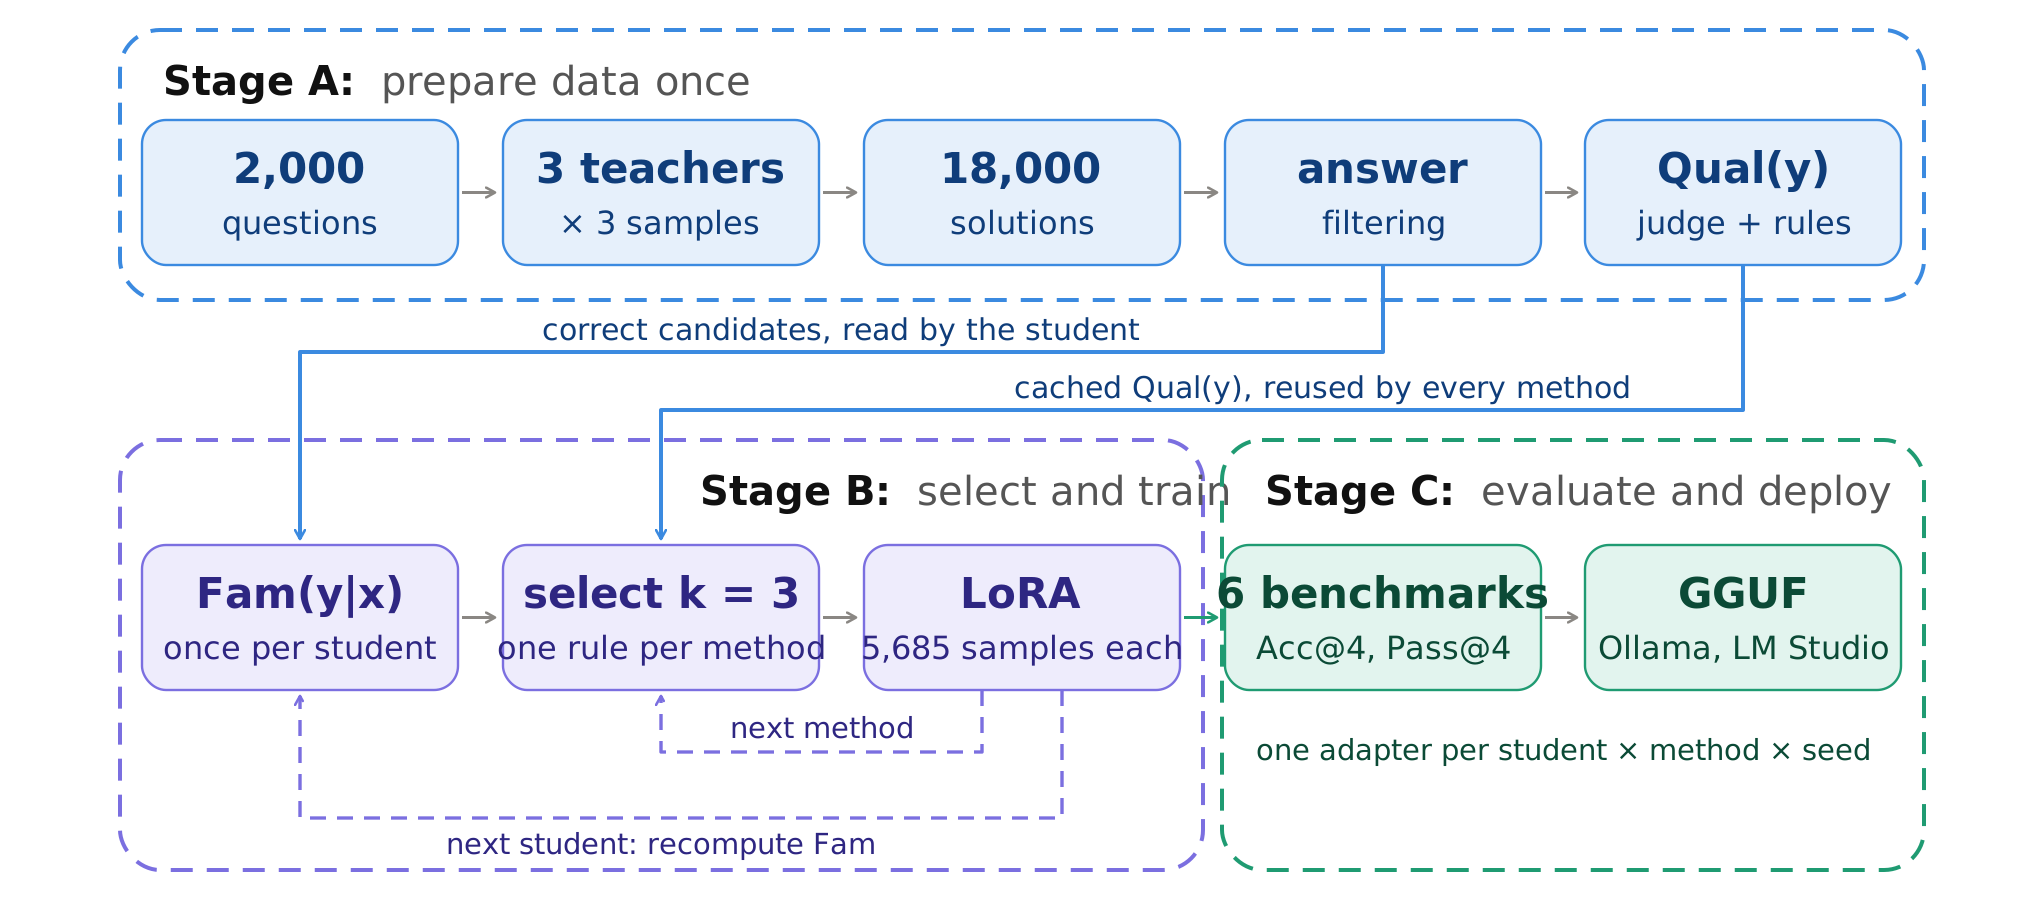
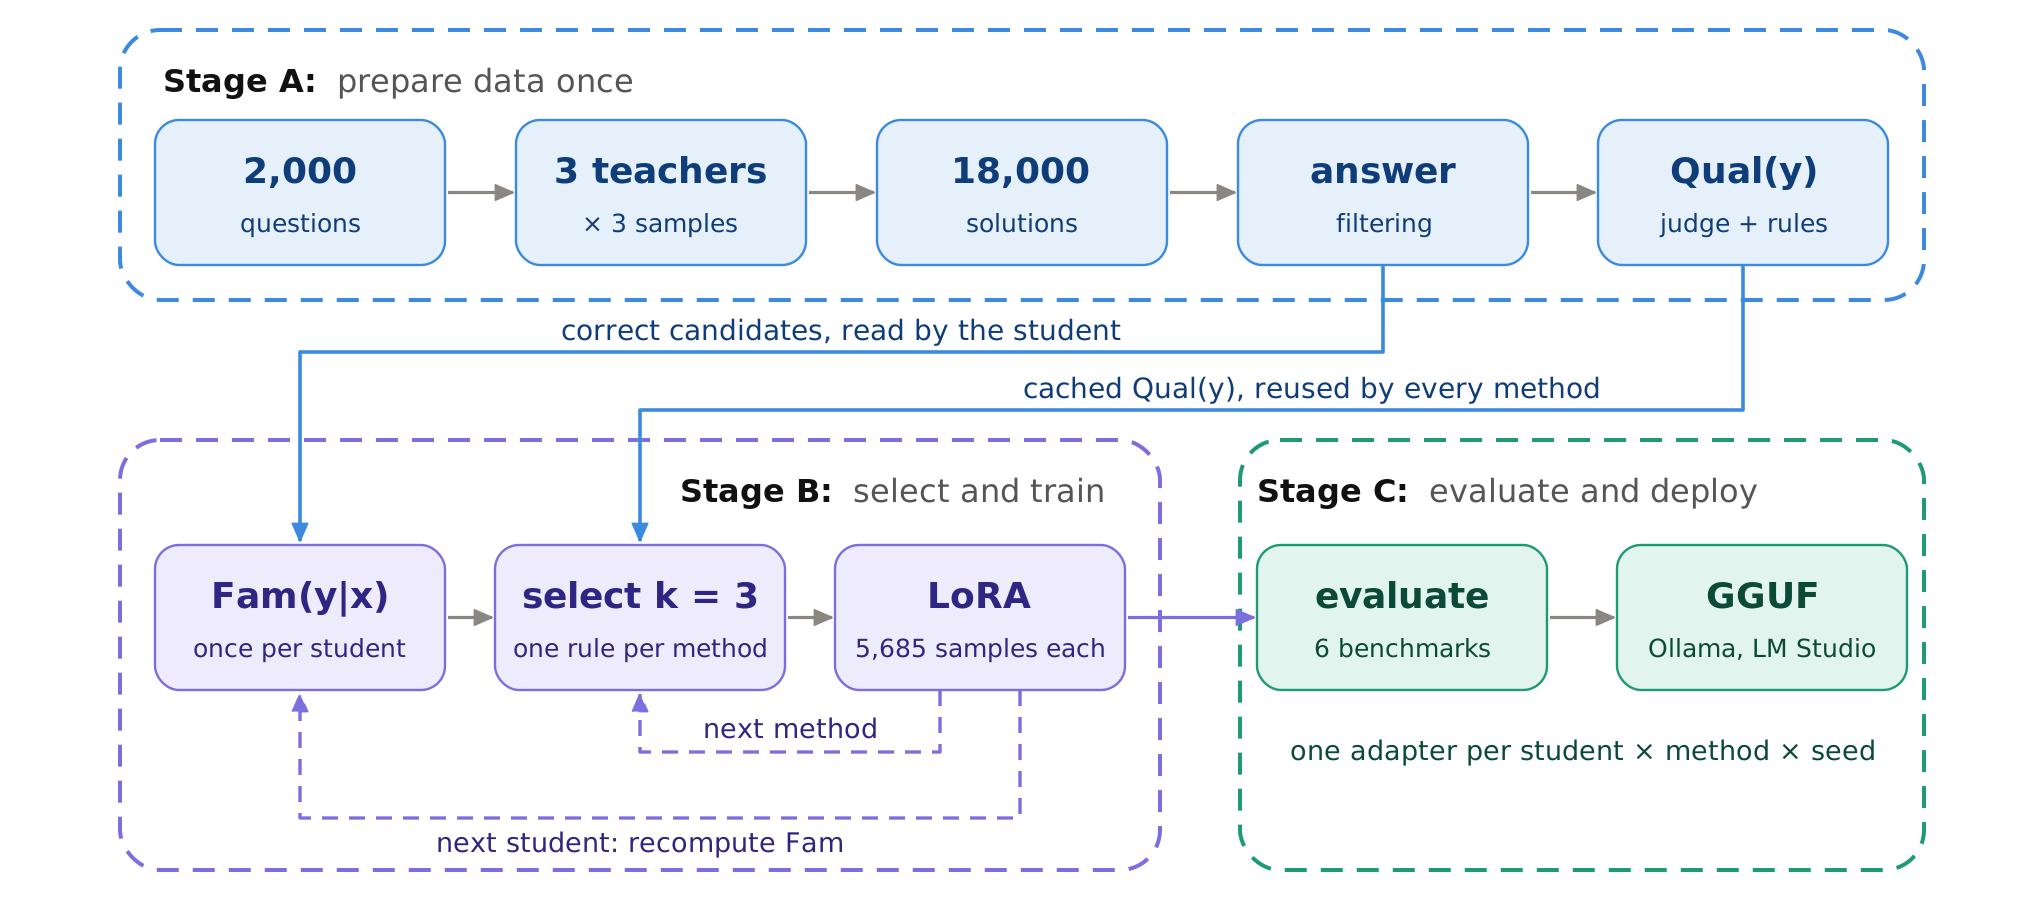
Hình 1: tách khung B và C, chữ nhỏ lại cho khỏi tràn, mũi tên tô đặc

diff --git a/src/tools/make_figures.py b/src/tools/make_figures.py
@@ -122,79 +122,93 @@ def save(svg_text: str, name: str, outdir: Path) -> list[Path]:
 
 
 # ================================================================ Hình 1: pipeline
+PIPE_BOX_W = 290           # bề rộng mỗi ô của Hình 1; bài kiểm thử đo chữ trong ô theo font thật của máy
+PIPE_L1, PIPE_L2, PIPE_HEAD = 36, 25, 32   # cỡ chữ dòng đầu, dòng hai của ô và tiêu đề Stage
+
+
 def build_pipeline() -> str:
     """Pipeline ba giai đoạn của bài FQ-Select. Vẽ lại 12/11/2026 theo phản biện 07/11 (B5: hình nhiều khoảng trắng):
-    Stage B và Stage C chung một hàng, năm cột thẳng với năm ô của Stage A, nên hình thấp còn khoảng 60% bản cũ.
-    Ký hiệu khớp với bài: Fam(y|x), Qual(y), "solutions" thay cho "trajectories".
+    Stage B và Stage C chung một hàng, nên hình thấp còn khoảng 60% bản cũ. Ký hiệu khớp với bài: Fam(y|x), Qual(y),
+    "solutions" thay cho "trajectories". Sửa 13/11: hai khung B và C cách nhau rõ, tiêu đề nhỏ hơn để không tràn
+    khi máy vẽ bằng font rộng (DejaVu Sans trên Linux), hai ô của Stage C cách đều hai bên khung, đầu mũi tên tô đặc.
     Stage A làm một lần cho mọi phương án; Stage B tính Fam một lần cho mỗi mô hình học, rồi mỗi phương án chạy một
     quy tắc chọn và huấn luyện; Stage C đánh giá và đóng gói."""
     W, H = 2040, 900
     s = Svg(W, H)
     for mid, c in [("m-grey", GREY), ("m-blue", BLUE), ("m-pur", PUR), ("m-grn", GRN)]:
-        s.marker(mid, c)
+        s.defs.append(                                   # đầu mũi tên tô đặc, đủ lớn để không mất nét khi thu nhỏ
+            f'<marker id="{mid}" viewBox="0 0 20 20" refX="18" refY="10" markerWidth="22" markerHeight="22" '
+            f'orient="auto-start-reverse" markerUnits="userSpaceOnUse"><path d="M2,3 L18,10 L2,17 Z" '
+            f'fill="{c}" stroke="{c}" stroke-width="1.5" stroke-linejoin="round"/></marker>')
 
     def frame(x, y, w, h, color):
         s.add(f'<rect x="{x}" y="{y}" width="{w}" height="{h}" rx="40" fill="none" stroke="{color}" '
               f'stroke-width="4" stroke-dasharray="22 14"/>')
 
     def header(x, y, bold, rest):
-        s.text(x, y, bold, 40, INK, weight="700")
-        s.text(x + text_width(bold, 40, True) + 26, y, rest, 40, DIM)
+        s.text(x, y, bold, PIPE_HEAD, INK, weight="700")
+        s.text(x + text_width(bold, PIPE_HEAD, True) + 20, y, rest, PIPE_HEAD, DIM)
 
-    BW, BH = 316, 145
+    BW, BH = PIPE_BOX_W, 145
 
     def box(cx, y, bg, stroke, tx, l1, l2):
         s.add(f'<rect x="{cx - BW / 2}" y="{y}" width="{BW}" height="{BH}" rx="24" fill="{bg}" '
               f'stroke="{stroke}" stroke-width="2.4"/>')
-        s.text(cx, y + 63, l1, 42, tx, "middle", "700")
-        s.text(cx, y + 114, l2, 32, tx, "middle")
+        s.text(cx, y + 63, l1, PIPE_L1, tx, "middle", "700")
+        s.text(cx, y + 112, l2, PIPE_L2, tx, "middle")
 
-    def arrow(x1, x2, y, color=GREY, marker="m-grey"):
-        s.line(x1 + BW / 2 + 4, y, x2 - BW / 2 - 8, y, color, marker=marker)
+    def arrow(x1, x2, y, color=GREY, marker="m-grey", width=3.2):
+        s.line(x1 + BW / 2 + 3, y, x2 - BW / 2 - 3, y, color, width, marker=marker)
 
-    X = [300, 661, 1022, 1383, 1743]                     # năm cột dùng chung cho hai hàng
-
-    # Stage A: sinh, lọc đáp án, chấm chất lượng một lần cho mọi phương án và mọi mô hình học
+    # Stage A: năm ô cách đều trong khung 120..1924
+    AX = [300, 661, 1022, 1383, 1743]
     AY = 120
     frame(120, 30, 1804, 270, BLUE)
-    header(163, 95, "Stage A:", "prepare data once")
-    for cx, (a, b) in zip(X, [("2,000", "questions"), ("3 teachers", "× 3 samples"), ("18,000", "solutions"),
-                              ("answer", "filtering"), ("Qual(y)", "judge + rules")]):
+    header(163, 92, "Stage A:", "prepare data once")
+    for cx, (a, b) in zip(AX, [("2,000", "questions"), ("3 teachers", "× 3 samples"), ("18,000", "solutions"),
+                               ("answer", "filtering"), ("Qual(y)", "judge + rules")]):
         box(cx, AY, BLUE_BG, BLUE, BLUE_TX, a, b)
     for i in range(4):
-        arrow(X[i], X[i + 1], AY + BH / 2)
+        arrow(AX[i], AX[i + 1], AY + BH / 2)
 
-    # Stage B (ba cột đầu) và Stage C (hai cột cuối) chung một hàng
-    BY, top, bot = 545, 440, 870
-    frame(120, top, 1083, bot - top, PUR)
-    header(700, top + 65, "Stage B:", "select and train")   # đặt bên phải hai mũi tên đi vào Fam và bước chọn
-    frame(1222, top, 702, bot - top, GRN)
-    header(1265, top + 65, "Stage C:", "evaluate and deploy")
-    for cx, (a, b), (bg, st, tx) in zip(
-            X, [("Fam(y|x)", "once per student"), ("select k = 3", "one rule per method"),
-                ("LoRA", "5,685 samples each"), ("6 benchmarks", "Acc@4, Pass@4"), ("GGUF", "Ollama, LM Studio")],
-            [(PUR_BG, PUR, PUR_TX)] * 3 + [(GRN_BG, GRN, GRN_TX)] * 2):
-        box(cx, BY, bg, st, tx, a, b)
-    arrow(X[0], X[1], BY + BH / 2)
-    arrow(X[1], X[2], BY + BH / 2)
-    arrow(X[2], X[3], BY + BH / 2, GRN, "m-grn")             # adapter đã tinh chỉnh sang đánh giá
-    arrow(X[3], X[4], BY + BH / 2)
-    s.text((X[3] + X[4]) / 2, BY + BH + 70, "one adapter per student × method × seed", 29, GRN_TX, "middle")
+    # Hàng dưới: khung B (120..1160) và khung C (1240..1924), cách nhau 80
+    top, bot, BY = 440, 870, 545
+    bx0, bx1, cx0, cx1 = 120, 1160, 1240, 1924
+    gap_b = (bx1 - bx0 - 2 * 35 - 3 * BW) / 2            # ba ô B, lề trong 35 mỗi bên
+    BX = [bx0 + 35 + BW / 2 + i * (BW + gap_b) for i in range(3)]
+    gap_c = 70
+    pad_c = (cx1 - cx0 - 2 * BW - gap_c) / 2              # hai ô C cách đều hai bên khung
+    CX = [cx0 + pad_c + BW / 2, cx0 + pad_c + BW * 1.5 + gap_c]
+    frame(bx0, top, bx1 - bx0, bot - top, PUR)
+    frame(cx0, top, cx1 - cx0, bot - top, GRN)
+    header(BX[1] + 40, top + 62, "Stage B:", "select and train")   # bên phải hai mũi tên đi vào Fam và bước chọn
+    header(cx0 + pad_c, top + 62, "Stage C:", "evaluate and deploy")
+    for cx, (a, b) in zip(BX, [("Fam(y|x)", "once per student"), ("select k = 3", "one rule per method"),
+                               ("LoRA", "5,685 samples each")]):
+        box(cx, BY, PUR_BG, PUR, PUR_TX, a, b)
+    for cx, (a, b) in zip(CX, [("evaluate", "6 benchmarks"), ("GGUF", "Ollama, LM Studio")]):
+        box(cx, BY, GRN_BG, GRN, GRN_TX, a, b)
+    arrow(BX[0], BX[1], BY + BH / 2)
+    arrow(BX[1], BX[2], BY + BH / 2)
+    arrow(BX[2], CX[0], BY + BH / 2, PUR, "m-pur")       # adapter từ Stage B sang đánh giá; màu theo giai đoạn
+                                                         # nguồn, như hai mũi tên xanh dương từ Stage A
+    arrow(CX[0], CX[1], BY + BH / 2)
+    s.text((CX[0] + CX[1]) / 2, BY + BH + 70, "one adapter per student × method × seed", 27, GRN_TX, "middle")
 
     # A -> B: hai nhánh, nhánh vào Fam đi cao hơn để hai đường không cắt nhau
     ya_bot, y1, y2 = AY + BH, 352, 410
-    s.poly([(X[3], ya_bot), (X[3], y1), (X[0], y1), (X[0], BY - 6)], BLUE, "m-blue")
-    s.text((X[0] + X[3]) / 2, y1 - 12, "correct candidates, read by the student", 30, BLUE_TX, "middle")
-    s.poly([(X[4], ya_bot), (X[4], y2), (X[1], y2), (X[1], BY - 6)], BLUE, "m-blue")
-    s.text((X[1] + X[4]) / 2 + 120, y2 - 12, "cached Qual(y), reused by every method", 30, BLUE_TX, "middle")
+    s.poly([(AX[3], ya_bot), (AX[3], y1), (BX[0], y1), (BX[0], BY - 4)], BLUE, "m-blue", width=3.6)
+    s.text((BX[0] + AX[3]) / 2, y1 - 12, "correct candidates, read by the student", 28, BLUE_TX, "middle")
+    s.poly([(AX[4], ya_bot), (AX[4], y2), (BX[1], y2), (BX[1], BY - 4)], BLUE, "m-blue", width=3.6)
+    s.text((BX[1] + AX[4]) / 2 + 120, y2 - 12, "cached Qual(y), reused by every method", 28, BLUE_TX, "middle")
 
     # vòng lặp trong Stage B: vòng trong về bước chọn (đổi phương án), vòng ngoài về Fam (đổi mô hình học)
     yb_bot = BY + BH
     ya, yb = yb_bot + 62, yb_bot + 128
-    s.poly([(X[2] - 40, yb_bot), (X[2] - 40, ya), (X[1], ya), (X[1], yb_bot + 6)], PUR, "m-pur", True, 3.4)
-    s.text((X[1] + X[2] - 40) / 2, ya - 14, "next method", 29, PUR_TX, "middle")
-    s.poly([(X[2] + 40, yb_bot), (X[2] + 40, yb), (X[0], yb), (X[0], yb_bot + 6)], PUR, "m-pur", True, 3.4)
-    s.text((X[0] + X[2]) / 2, yb + 36, "next student: recompute Fam", 29, PUR_TX, "middle")
+    s.poly([(BX[2] - 40, yb_bot), (BX[2] - 40, ya), (BX[1], ya), (BX[1], yb_bot + 4)], PUR, "m-pur", True, 3.4)
+    s.text((BX[1] + BX[2] - 40) / 2, ya - 14, "next method", 27, PUR_TX, "middle")
+    s.poly([(BX[2] + 40, yb_bot), (BX[2] + 40, yb), (BX[0], yb), (BX[0], yb_bot + 4)], PUR, "m-pur", True, 3.4)
+    s.text((BX[0] + BX[2]) / 2, yb + 34, "next student: recompute Fam", 27, PUR_TX, "middle")
     return s.render()
 
 

diff --git a/tests/tools/test_make_figures.py b/tests/tools/test_make_figures.py
@@ -25,6 +25,22 @@ def test_pipeline_is_valid_svg_with_all_boxes():
     assert "QLoRA" not in svg        # 1,5B dùng LoRA 16-bit, chỉ 7B dùng QLoRA (chốt 02/10); xem phần Thiết lập
 
 
+def test_pipeline_text_fits_boxes_and_frames():
+    """Sửa 13/11: trên máy Windows (font DejaVu Sans) chữ trong ô và tiêu đề Stage B tràn ra ngoài. text_width đo bằng
+    font cairo thật của máy chạy test, nên bài này bắt được lỗi tràn đúng trên máy vẽ hình."""
+    w = mf.PIPE_BOX_W - 16
+    for txt in ("2,000", "3 teachers", "18,000", "answer", "Qual(y)", "Fam(y|x)", "select k = 3", "LoRA",
+                "evaluate", "GGUF"):
+        assert mf.text_width(txt, mf.PIPE_L1, True) < w, txt
+    for txt in ("questions", "× 3 samples", "solutions", "filtering", "judge + rules", "once per student",
+                "one rule per method", "5,685 samples each", "6 benchmarks", "Ollama, LM Studio"):
+        assert mf.text_width(txt, mf.PIPE_L2) < w, txt
+    head = lambda b, r: mf.text_width(b, mf.PIPE_HEAD, True) + 20 + mf.text_width(r, mf.PIPE_HEAD)
+    assert head("Stage B:", "select and train") < 1160 - 25 - (35 + mf.PIPE_BOX_W * 1.5 + 120 + 40 + (
+        1160 - 120 - 70 - 3 * mf.PIPE_BOX_W) / 2)            # từ chỗ đặt tiêu đề B tới mép phải khung B
+    assert head("Stage C:", "evaluate and deploy") < 1924 - 1240 - 2 * 20
+
+
 def test_distribution_uses_shares_not_counts():
     """Nhóm 100 câu và nhóm 20 câu có cùng hình dạng phải cho cùng tỷ lệ."""
     big = [0] * 9 + [100]
